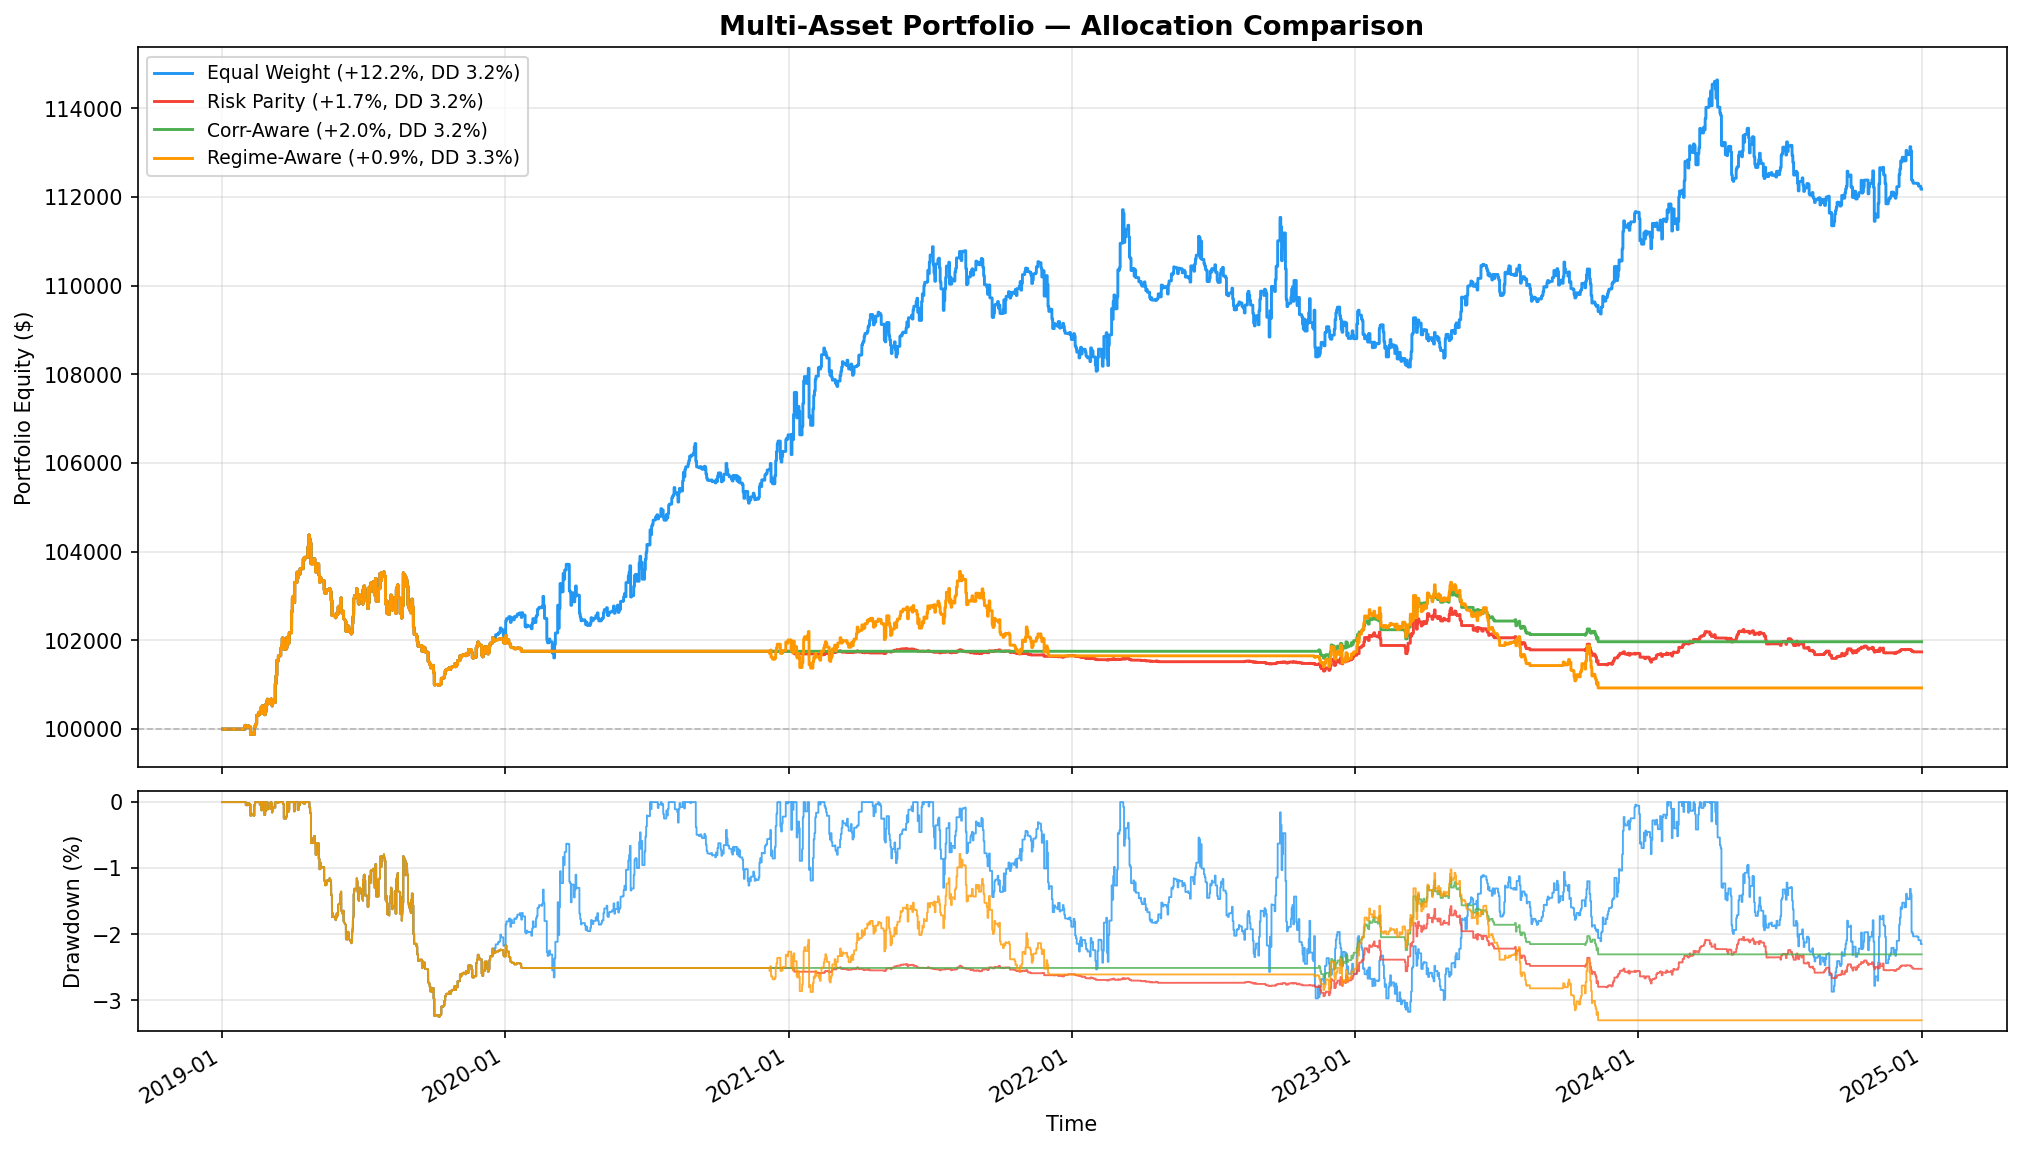
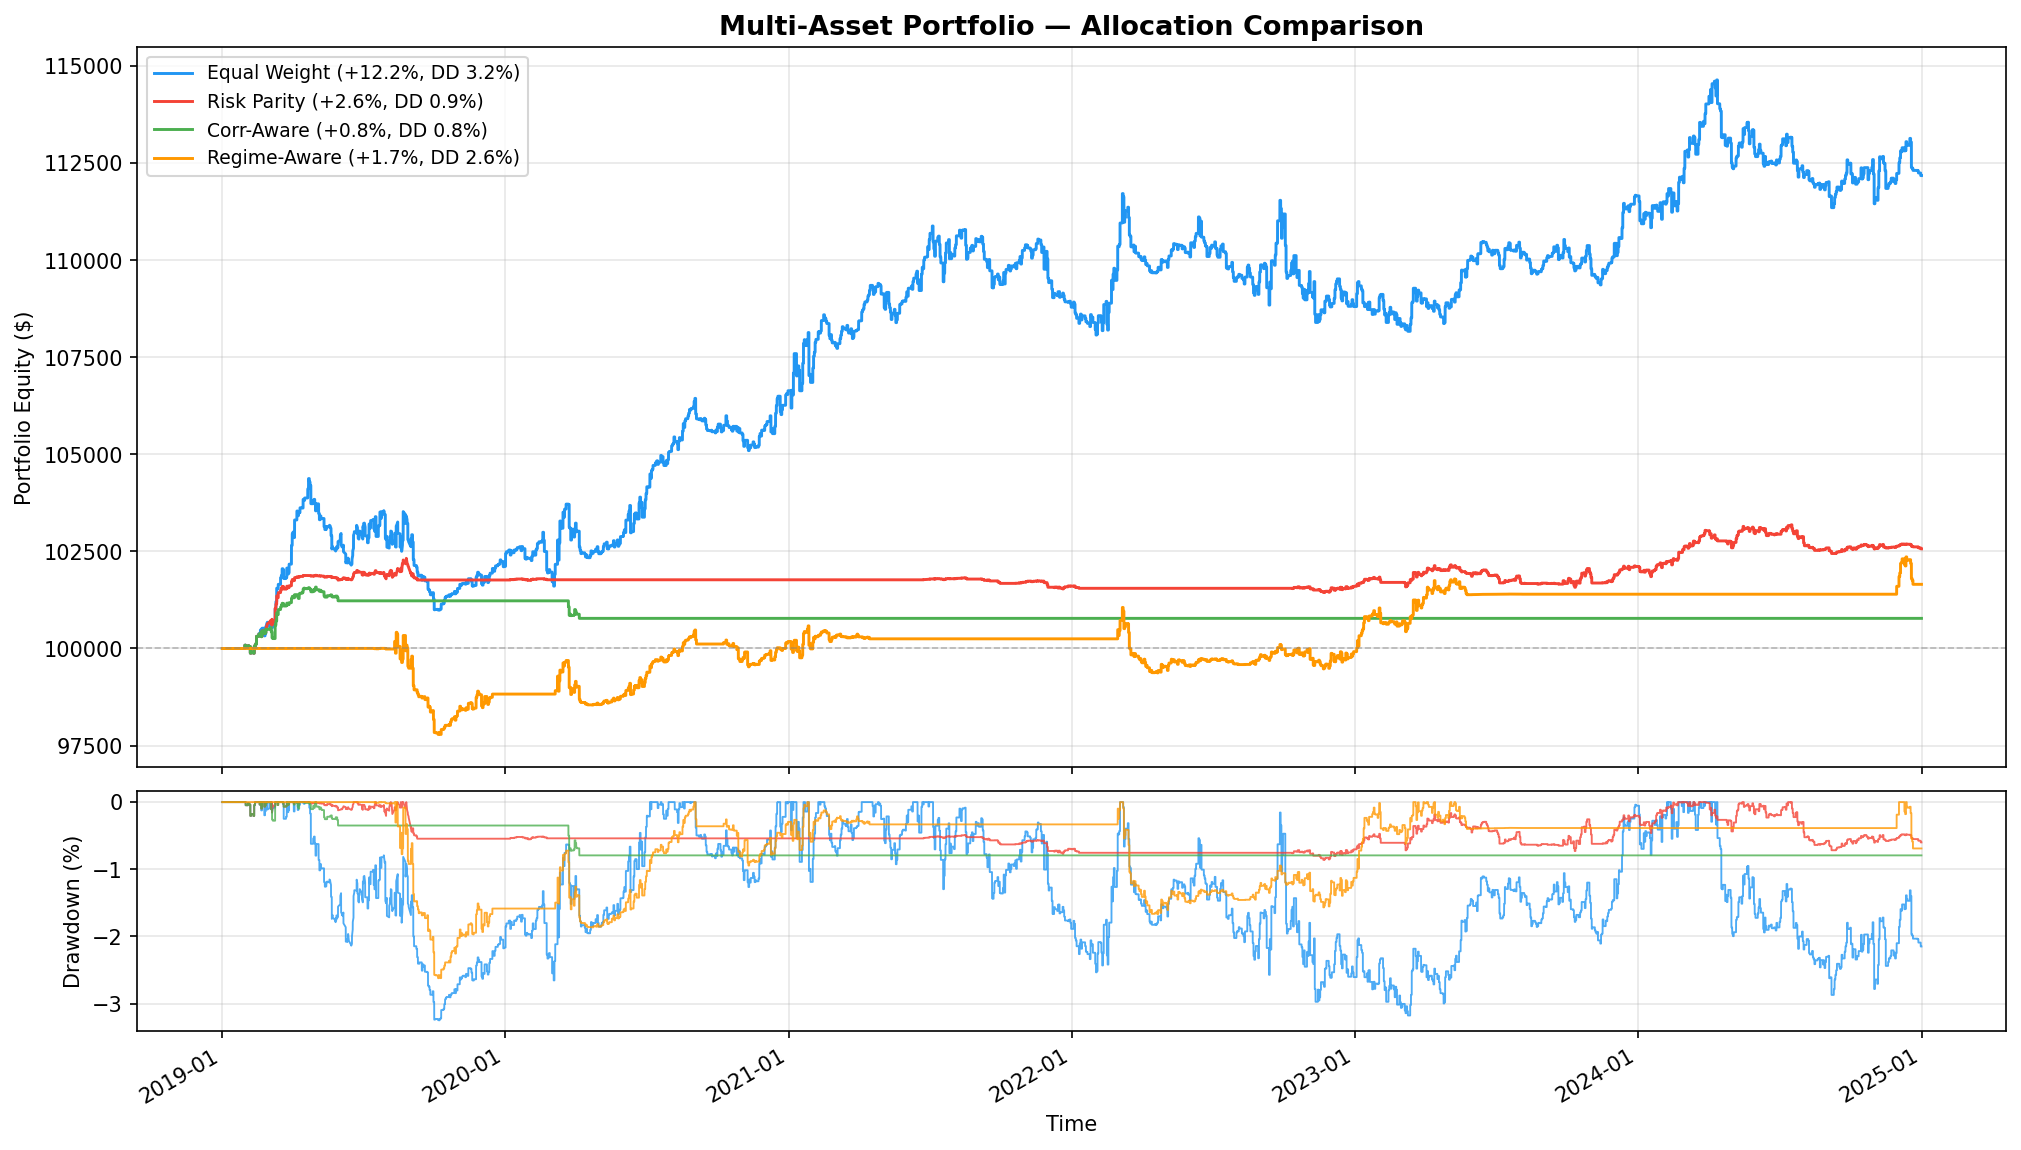
feat: rebalancing

diff --git a/backtesting/allocation.py b/backtesting/allocation.py
@@ -106,8 +106,9 @@ class CorrelationAwareAllocator(Allocator):
     Falls back to risk parity with fewer than 2 assets or insufficient data.
     """
 
-    def __init__(self, min_lookback: int = 30):
+    def __init__(self, min_lookback: int = 30, corr_threshold: float = 1.0):
         self.min_lookback = min_lookback
+        self.corr_threshold = corr_threshold
 
     def compute_weights(self, symbols, close_arrays, lookback, current_idx):
         n = len(symbols)
@@ -145,17 +146,25 @@ class CorrelationAwareAllocator(Allocator):
         rp_result = RiskParityAllocator(self.min_lookback).compute_weights(
             symbols, close_arrays, lookback, current_idx)
 
-        # Compute correlation scaling factor for each asset
+        # Compute correlation scaling factor for each asset.
+        # When corr_threshold < 1.0, assets whose average pairwise
+        # correlation exceeds the threshold get their weight zeroed out.
         corr_factors = {}
         for i, sym in enumerate(symbols):
             avg_abs_corr = np.mean([
                 abs(corr_matrix[i, j]) for j in range(n) if j != i
             ])
-            corr_factors[sym] = 1.0 / max(avg_abs_corr, 0.1)
+            if avg_abs_corr > self.corr_threshold:
+                corr_factors[sym] = 0.0
+            else:
+                corr_factors[sym] = 1.0 / max(avg_abs_corr, 0.1)
 
         # Apply factor and renormalize
         raw = {s: rp_result.weights[s] * corr_factors[s] for s in symbols}
         total = sum(raw.values())
+        if total <= 0:
+            # All assets above threshold — fall back to risk parity
+            return rp_result
         w = {s: v / total for s, v in raw.items()}
         return AllocationWeights(weights=w, method="correlation_aware")
 

diff --git a/examples/portfolio_demo.py b/examples/portfolio_demo.py
@@ -171,7 +171,7 @@ def main():
     allocators = {
         "Equal Weight": EqualWeightAllocator(),
         "Risk Parity": RiskParityAllocator(min_lookback=60),
-        "Corr-Aware": CorrelationAwareAllocator(min_lookback=60),
+        "Corr-Aware": CorrelationAwareAllocator(min_lookback=60, corr_threshold=0.4),
         "Regime-Aware": RegimeAllocator(
             trend_symbols=trend_syms,
             reversion_symbols=revert_syms,
@@ -224,7 +224,7 @@ def main():
             starting_cash=STARTING_CASH,
             commission_bps=COMMISSION_BPS,
             slippage_bps=SLIPPAGE_BPS,
-            rebalance_frequency=500,
+            rebalance_frequency=21,
             vol_lookback=500,
             risk_limits=limits,
             costs_by_symbol=COSTS_BY_SYMBOL,
@@ -329,8 +329,10 @@ def main():
         starting_cash=STARTING_CASH,
         commission_bps=COMMISSION_BPS,
         slippage_bps=SLIPPAGE_BPS,
-        rebalance_frequency=500,
+        rebalance_frequency=21,
         vol_lookback=500,
+        min_trades=10,
+        top_k_avg=5,
     )
     elapsed = time.perf_counter() - t0
 
@@ -363,8 +365,11 @@ def main():
         starting_cash=STARTING_CASH,
         commission_bps=COMMISSION_BPS,
         slippage_bps=SLIPPAGE_BPS,
-        rebalance_frequency=500,
+        rebalance_frequency=21,
         vol_lookback=500,
+        min_trades=10,
+        top_k_avg=5,
+        anchored=True,
     )
 
     print(wf.summary.to_string(index=False))
